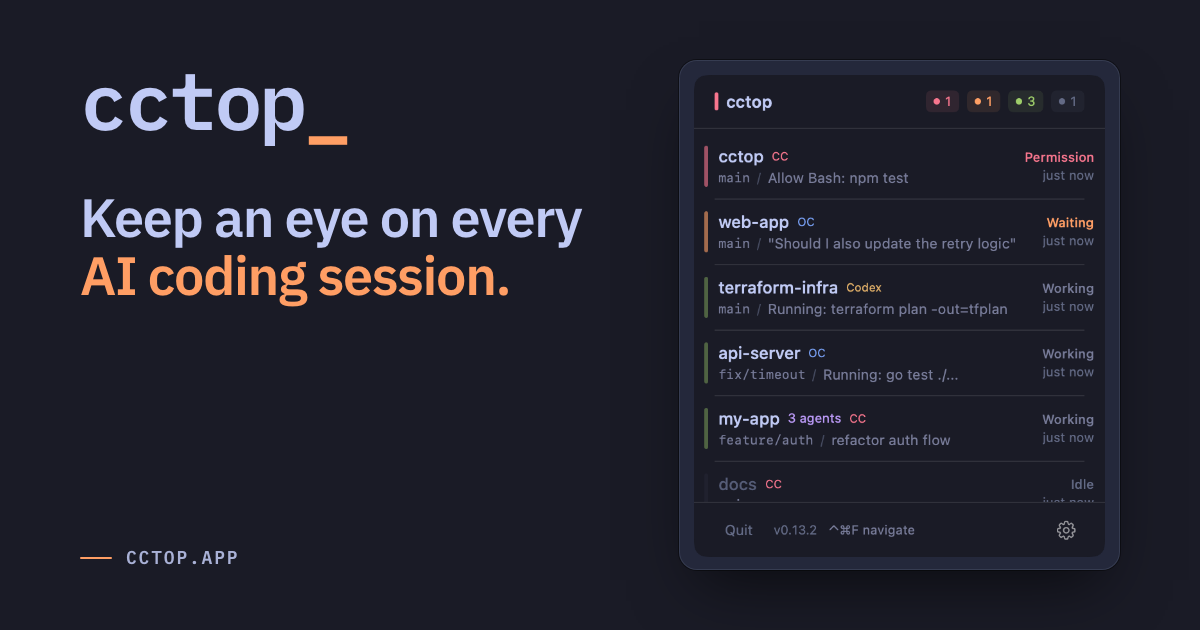
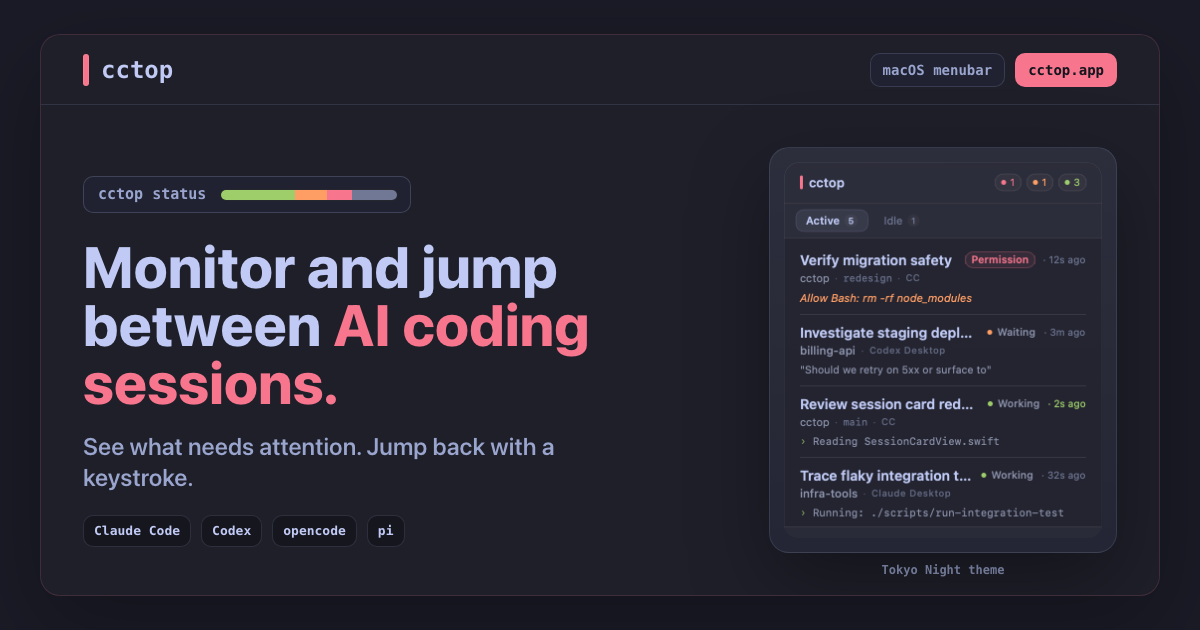
Update website social preview image

diff --git a/site/og.html b/site/og.html
@@ -2,89 +2,219 @@
 <html lang="en">
 <head>
 <meta charset="utf-8">
-<title>cctop — social preview source (1200×630)</title>
-<link rel="preconnect" href="https://fonts.googleapis.com">
-<link rel="preconnect" href="https://fonts.gstatic.com" crossorigin>
-<link href="https://fonts.googleapis.com/css2?family=IBM+Plex+Mono:wght@600&family=IBM+Plex+Sans:wght@600&display=swap" rel="stylesheet">
+<title>cctop social preview source (1200x630)</title>
 <style>
-  *{margin:0;padding:0;box-sizing:border-box}
-  html,body{width:1200px;height:630px}
-  body{
-    background:#1a1b26;
-    color:#c0caf5;
-    font-family:'IBM Plex Sans',-apple-system,BlinkMacSystemFont,sans-serif;
-    -webkit-font-smoothing:antialiased;
-    position:relative;
-    overflow:hidden;
+  * { margin: 0; padding: 0; box-sizing: border-box; }
+  html, body { width: 1200px; height: 630px; }
+  body {
+    background: #1a1b26;
+    color: #c0caf5;
+    font-family: -apple-system, BlinkMacSystemFont, "SF Pro Display", "SF Pro Text", Inter, system-ui, sans-serif;
+    -webkit-font-smoothing: antialiased;
+    text-rendering: optimizeLegibility;
+    overflow: hidden;
+    position: relative;
   }
 
-  .wordmark{
-    position:absolute;
-    top:60px;left:80px;
-    font-family:'IBM Plex Mono','SF Mono',Menlo,monospace;
-    font-size:80px;font-weight:600;
-    letter-spacing:-0.04em;line-height:1;
-    color:#c0caf5;
-  }
-  .wordmark .caret{color:#ff9e64}
-
-  .tagline{
-    position:absolute;
-    top:188px;left:80px;
-    width:540px;
-    font-size:54px;font-weight:600;
-    color:#c0caf5;
-    line-height:1.08;letter-spacing:-0.025em;
-  }
-  .tagline .accent{color:#ff9e64}
-
-  .stamp{
-    position:absolute;
-    bottom:60px;left:80px;
-    height:24px;
-    display:flex;align-items:center;gap:14px;
-  }
-  .stamp .line{
-    width:32px;height:2px;
-    background:#ff9e64;border-radius:1px;
-    flex:0 0 auto;
-  }
-  .stamp .label{
-    font-family:'IBM Plex Mono','SF Mono',Menlo,monospace;
-    font-size:18px;font-weight:600;
-    line-height:24px;
-    color:#a9b1d6;
-    letter-spacing:0.10em;text-transform:uppercase;
+  .shell {
+    position: absolute;
+    inset: 34px 40px;
+    border: 1px solid rgba(247, 118, 142, 0.16);
+    border-radius: 20px;
+    background: rgba(255, 255, 255, 0.014);
+    box-shadow: 0 30px 90px rgba(0, 0, 0, 0.28);
+    overflow: hidden;
   }
 
-  .frame{
-    position:absolute;
-    top:60px;right:80px;
-    height:510px;
-    background:#24283b;
-    border:1px solid rgba(192,202,245,0.12);
-    border-radius:18px;
-    padding:14px;
-    box-shadow:
-      0 30px 60px -20px rgba(0,0,0,0.6),
-      0 0 0 1px rgba(0,0,0,0.4);
+  .nav {
+    position: absolute;
+    top: 0;
+    left: 0;
+    right: 0;
+    height: 70px;
+    display: flex;
+    align-items: center;
+    justify-content: space-between;
+    padding: 0 42px;
+    border-bottom: 1px solid rgba(192, 202, 245, 0.12);
   }
-  .frame img{
-    display:block;
-    height:482px;width:auto;
-    border-radius:10px;
+  .brand {
+    display: inline-flex;
+    align-items: center;
+    gap: 12px;
+    font-family: "SF Mono", ui-monospace, Menlo, Consolas, monospace;
+    font-size: 24px;
+    font-weight: 760;
+    line-height: 1;
+    color: #c0caf5;
+  }
+  .brand-mark {
+    width: 6px;
+    height: 32px;
+    border-radius: 999px;
+    background: #f7768e;
+    box-shadow: 0 0 0 1px rgba(255, 255, 255, 0.08) inset;
+  }
+  .nav-meta {
+    display: flex;
+    align-items: center;
+    gap: 10px;
+    color: #9aa5ce;
+    font-family: "SF Mono", ui-monospace, Menlo, Consolas, monospace;
+    font-size: 14px;
+    font-weight: 650;
+  }
+  .nav-chip {
+    padding: 8px 12px;
+    border: 1px solid rgba(192, 202, 245, 0.16);
+    border-radius: 10px;
+    background: #202231;
+  }
+  .nav-chip.hot {
+    background: #f7768e;
+    border-color: transparent;
+    color: #14151d;
+  }
+
+  .hero {
+    position: absolute;
+    top: 70px;
+    left: 0;
+    right: 0;
+    bottom: 0;
+    display: grid;
+    grid-template-columns: minmax(0, 1fr) 348px;
+    gap: 40px;
+    padding: 42px 42px 38px;
+    align-items: center;
+  }
+
+  .status-pill {
+    width: max-content;
+    display: inline-flex;
+    align-items: center;
+    gap: 14px;
+    padding: 10px 12px 10px 14px;
+    border: 1px solid rgba(192, 202, 245, 0.20);
+    border-radius: 10px;
+    background: #202231;
+    color: #9aa5ce;
+    font-family: "SF Mono", ui-monospace, Menlo, Consolas, monospace;
+    font-size: 15px;
+    font-weight: 700;
+    line-height: 1;
+  }
+  .status-bars {
+    width: 178px;
+    height: 12px;
+    display: flex;
+    overflow: hidden;
+    border-radius: 999px;
+    border: 1px solid rgba(255, 255, 255, 0.07);
+    background: #16161e;
+  }
+  .status-bars span { display: block; height: 100%; }
+  .bar-ok { width: 42%; background: #9ece6a; }
+  .bar-wait { width: 18%; background: #ff9e64; }
+  .bar-perm { width: 14%; background: #f7768e; }
+  .bar-idle { width: 26%; background: #707895; }
+
+  h1 {
+    margin-top: 24px;
+    max-width: 590px;
+    color: #c0caf5;
+    font-size: 58px;
+    font-weight: 790;
+    line-height: 1;
+  }
+  .accent { color: #f7768e; }
+  .subhead {
+    margin-top: 20px;
+    max-width: 520px;
+    color: #9aa5ce;
+    font-size: 24px;
+    font-weight: 560;
+    line-height: 1.28;
+  }
+
+  .tools {
+    margin-top: 22px;
+    display: flex;
+    flex-wrap: wrap;
+    gap: 10px;
+  }
+  .tool {
+    min-height: 32px;
+    display: inline-flex;
+    align-items: center;
+    padding: 7px 10px;
+    border: 1px solid rgba(192, 202, 245, 0.14);
+    border-radius: 10px;
+    background: #16161e;
+    color: #c0caf5;
+    font-family: "SF Mono", ui-monospace, Menlo, Consolas, monospace;
+    font-size: 13px;
+    font-weight: 700;
+  }
+
+  .shot-frame {
+    align-self: center;
+    border-radius: 20px;
+    border: 1px solid rgba(192, 202, 245, 0.12);
+    background: linear-gradient(180deg, rgba(255, 255, 255, 0.055), rgba(255, 255, 255, 0.018)), #202231;
+    padding: 14px;
+    box-shadow: 0 28px 78px rgba(0, 0, 0, 0.34);
+  }
+  .shot-crop {
+    height: 376px;
+    overflow: hidden;
+    border-radius: 14px;
+  }
+  .shot-frame img {
+    display: block;
+    width: 100%;
+  }
+  .caption {
+    margin-top: 11px;
+    color: #707895;
+    text-align: center;
+    font-family: "SF Mono", ui-monospace, Menlo, Consolas, monospace;
+    font-size: 12px;
+    font-weight: 650;
+    line-height: 1;
   }
 </style>
 </head>
 <body>
-  <div class="wordmark">cctop<span class="caret">_</span></div>
-  <div class="tagline">Keep an eye on every <span class="accent">AI coding session.</span></div>
-  <div class="stamp">
-    <span class="line"></span>
-    <span class="label">cctop.app</span>
-  </div>
-  <div class="frame">
-    <img src="https://raw.githubusercontent.com/st0012/cctop/master/docs/menubar-tokyonight-dark.png" alt="">
+  <div class="shell">
+    <div class="nav">
+      <div class="brand"><span class="brand-mark"></span><span>cctop</span></div>
+      <div class="nav-meta"><span class="nav-chip">macOS menubar</span><span class="nav-chip hot">cctop.app</span></div>
+    </div>
+    <main class="hero">
+      <section>
+        <div class="status-pill">
+          <span>cctop status</span>
+          <span class="status-bars"><span class="bar-ok"></span><span class="bar-wait"></span><span class="bar-perm"></span><span class="bar-idle"></span></span>
+        </div>
+        <h1>Monitor and jump between <span class="accent">AI coding sessions.</span></h1>
+        <p class="subhead">See what needs attention. Jump back with a keystroke.</p>
+        <div class="tools">
+          <span class="tool">Claude Code</span>
+          <span class="tool">Codex</span>
+          <span class="tool">opencode</span>
+          <span class="tool">pi</span>
+        </div>
+      </section>
+      <aside>
+        <div class="shot-frame">
+          <div class="shot-crop">
+            <img src="https://raw.githubusercontent.com/st0012/cctop/master/docs/menubar-tokyonight-dark.png" alt="">
+          </div>
+        </div>
+        <div class="caption">Tokyo Night theme</div>
+      </aside>
+    </main>
   </div>
 </body>
 </html>